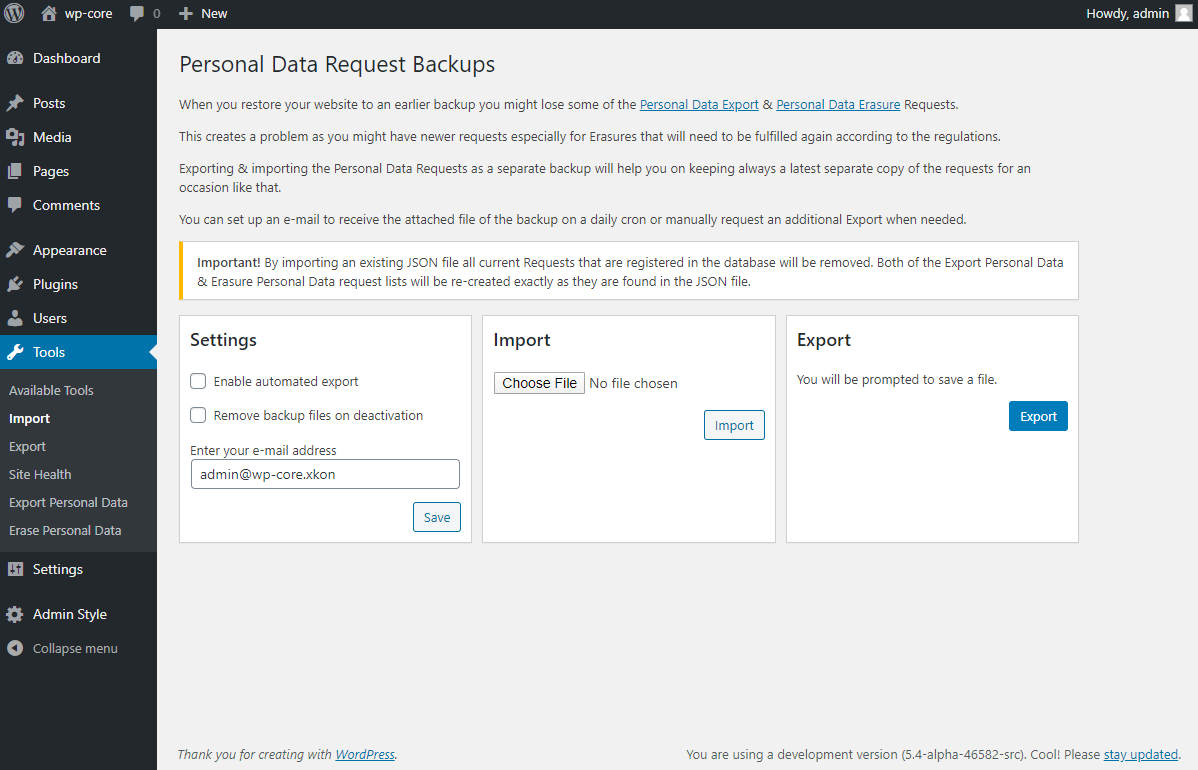
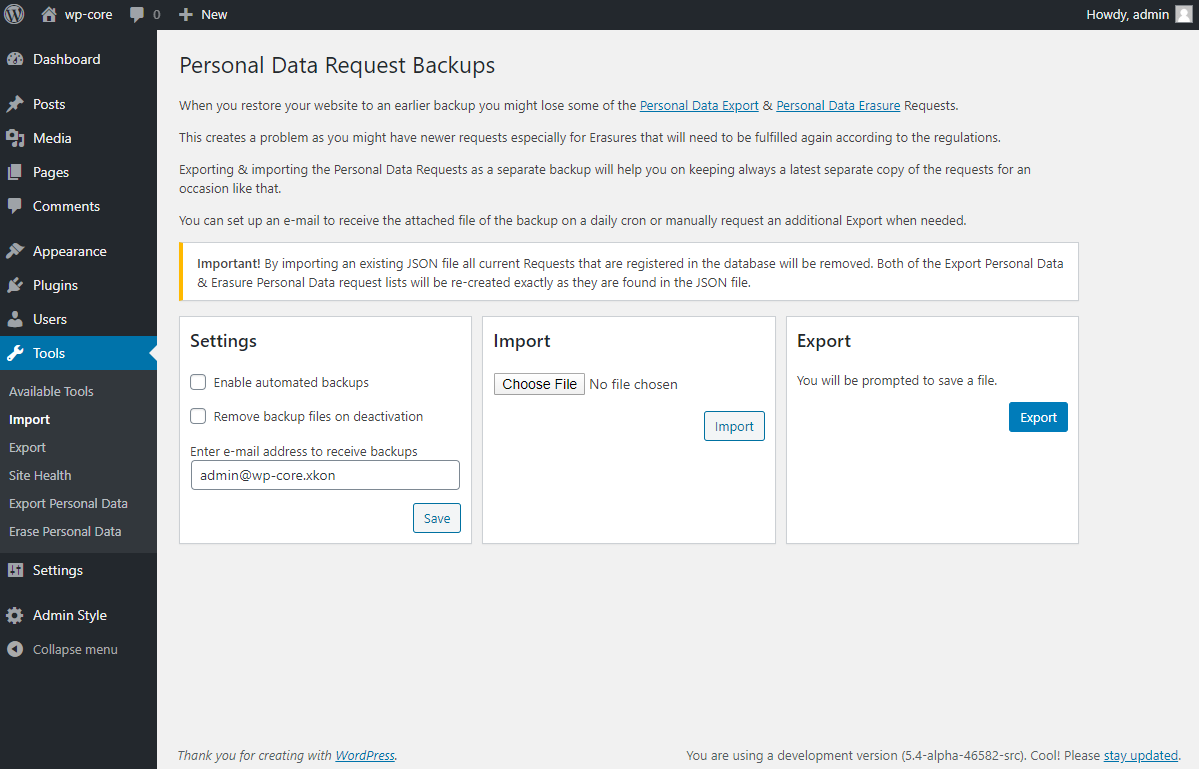
minor fixes

diff --git a/class-personal-data-request-backups.php b/class-personal-data-request-backups.php
@@ -531,14 +531,11 @@ if ( ! class_exists( 'Personal_Data_Request_Backups' ) ) {
 			fwrite( $file, $data );
 			fclose( $file );
 
-			// Send the file for download.
-			$pdr_file_url = array(
+			return array(
 				'file_url'  => $this->pdr_exports_url . $json_file_name,
 				'file_path' => $this->pdr_exports_dir . $json_file_name,
 				'file_name' => $json_file_name,
 			);
-
-			return $pdr_file_url;
 		} // public function export()
 
 
@@ -642,7 +639,7 @@ if ( ! class_exists( 'Personal_Data_Request_Backups' ) ) {
 										<?php checked( $cron_backup, '1', true ); ?>
 									/>
 									<label for="pdr-cron-backup">
-											<?php esc_html_e( 'Enable automated export', 'pdr-backups' ); ?>
+											<?php esc_html_e( 'Enable automated backups', 'pdr-backups' ); ?>
 									</label>
 								</p>
 								<p>
@@ -659,7 +656,7 @@ if ( ! class_exists( 'Personal_Data_Request_Backups' ) ) {
 								</p>
 								<p>
 									<label for="pdr-email-address">
-										<?php esc_html_e( 'Enter your e-mail address', 'pdr-backups' ); ?>
+										<?php esc_html_e( 'Enter e-mail address to receive backups', 'pdr-backups' ); ?>
 									</label>
 									<input
 										type="email"
